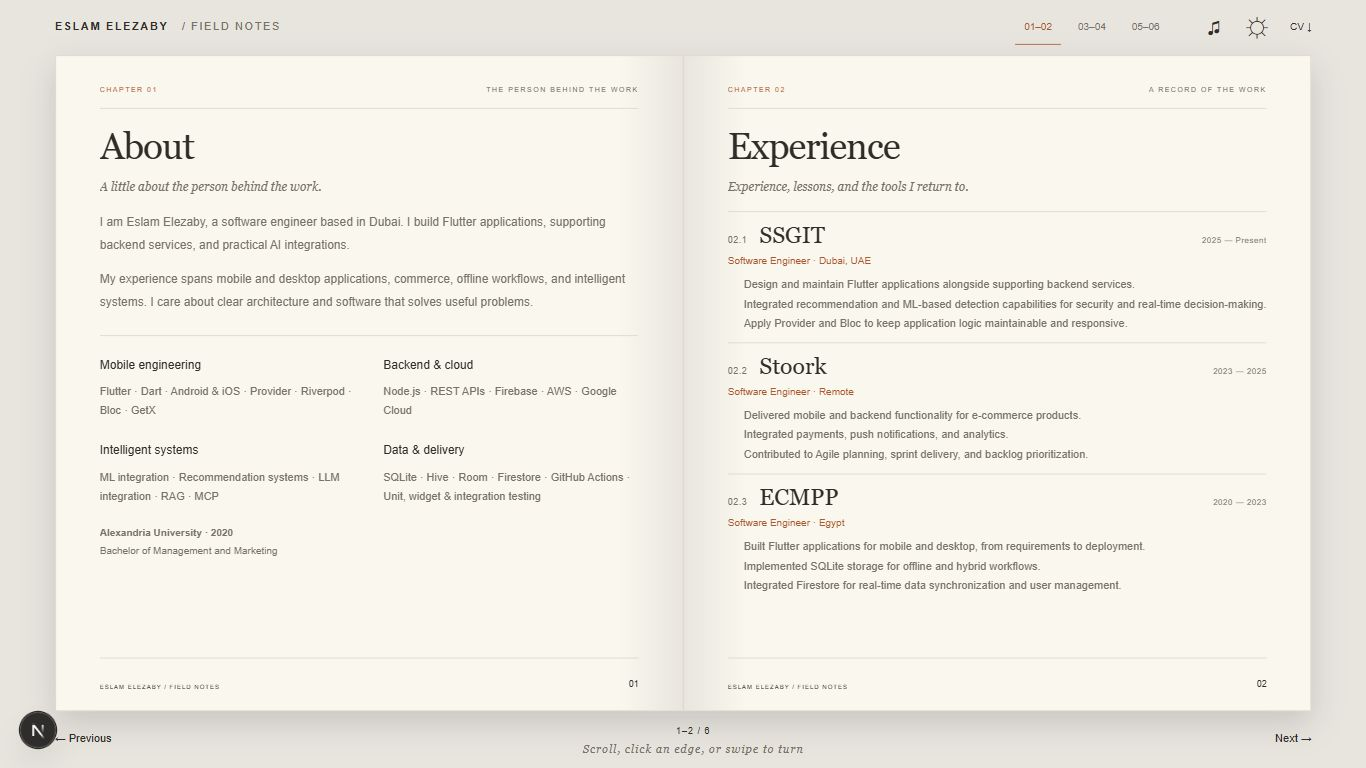
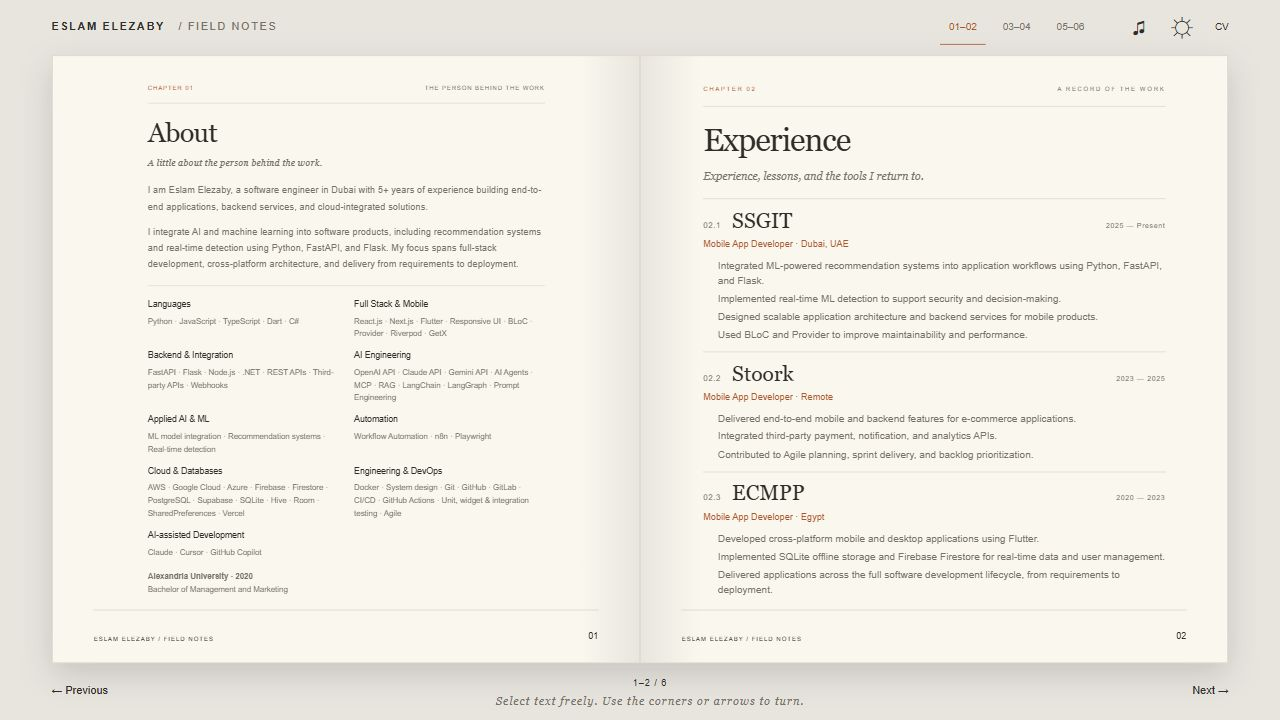
refactor: update portfolio details and enhance CV content for clarity and relevance

diff --git a/components/notebook.tsx b/components/notebook.tsx
@@ -9,15 +9,15 @@ import {chapters,products,tools} from '@/lib/notebook';
 import {experience,profile,skills} from '@/lib/portfolio';
 function OutLink({href,children,className=''}:{href:string;children:React.ReactNode;className?:string}){return <a href={href} className={className} target="_blank" rel="noopener noreferrer">{children}</a>}
 function Note({children}:{children:React.ReactNode}){return <aside className="pencil-note"><span className="micro">ENGINEERING NOTE</span><p>{children}</p></aside>}
-function ChapterContent({index,headingId}:{index:number;headingId?:string}){const chapter=chapters[index];return <><div className="chapter-running"><span>CHAPTER {chapter.number}</span><span>{chapter.label}</span></div>{chapter.id==='about'?<><h2 id={headingId} tabIndex={-1}>About</h2><p className="chapter-intro">A little about the person behind the work.</p><div className="about-copy"><p>I am Eslam Elezaby, a software engineer based in Dubai. I build Flutter applications, supporting backend services, and practical AI integrations.</p><p>My experience spans mobile and desktop applications, commerce, offline workflows, and intelligent systems. I care about clear architecture and software that solves useful problems.</p></div><div className="about-toolkit">{skills.map(s=><div key={s.name}><h3>{s.name}</h3><p>{s.items.join(' · ')}</p></div>)}</div><p className="education-note"><strong>Alexandria University · 2020</strong><br/>Bachelor of Management and Marketing</p><Note>Build useful things.<br/>Keep learning.</Note></>:chapter.id==='work'?<><h2 id={headingId} tabIndex={-1}>Projects</h2><p className="chapter-intro">A selection of things I’ve helped bring to life.</p><div className="product-index">{products.map((p,i)=><article className="product-entry" key={p.name}><span className="entry-number">{chapter.number}.{i+1}</span><div className="entry-content"><h3>{p.name}</h3><p>{p.description}</p><span className="micro">{p.category}</span></div><div className="entry-links">{p.note&&<span className="margin-note">{p.note}</span>}{p.links.map(l=><OutLink key={l.href} href={l.href}>{l.label}</OutLink>)}</div></article>)}</div><Note>Understand the problem.<br/>Build the simplest useful solution.</Note></>:chapter.id==='open-source'?<><h2 id={headingId} tabIndex={-1}>Open Source</h2><p className="chapter-intro">Small tools. Thoughtful details. Shared openly.</p><div className="tool-index">{tools.map((t,i)=><article key={t.name} className="tool-entry"><span className="entry-number">{chapter.number}.{i+1}</span><div><span className="micro">{t.category}</span><h3>{t.name}</h3><p>{t.description}</p><p className="tool-aside">{t.detail}</p><OutLink href={t.href}>{t.link}</OutLink></div></article>)}</div><Note>Make something useful.<br/>Then make it easier to use.</Note></>:chapter.id==='ai'?<><h2 id={headingId} tabIndex={-1}>AI Projects</h2><p className="chapter-intro">An exploration of voice, language, and useful actions.</p><article className="ai-record"><div className="record-top"><span className="micro">PROJECT / {chapter.number}.1</span><span className="status-label">Prototype</span></div><h3>Hotel Voice AI Agent</h3><p>A real-time voice agent exploring hotel inquiries, availability checks, and mock booking flows through natural conversation.</p><div className="voice-flow" aria-label="Voice input, speech recognition, language model, tools, spoken response"><span>Voice</span><b>→</b><span>Understand</span><b>→</b><span>Act</span><b>→</b><span>Respond</span></div><dl className="ai-facts"><div><dt>CONVERSATION</dt><dd>Twilio · Deepgram</dd></div><div><dt>REASONING & ACTIONS</dt><dd>OpenAI · Tool calling</dd></div><div><dt>APPLICATION</dt><dd>Python · FastAPI · WebSockets</dd></div><div><dt>SCOPE</dt><dd>Hotel queries & mock bookings</dd></div></dl><OutLink href="https://github.com/eslamelezaby1/voice_ai_agent">Explore the repository</OutLink></article><div className="thinking-note"><span className="micro">WHAT INTERESTS ME</span><p>How a model becomes part of a dependable system: the context it receives, the tools it can use, and the experience it creates.</p></div><Note>Explore the possible.<br/>Build the useful.</Note></>:chapter.id==='experience'?<><h2 id={headingId} tabIndex={-1}>Experience</h2><p className="chapter-intro">Experience, lessons, and the tools I return to.</p><div className="career-index">{experience.map((job,i)=><article className="career-entry" key={job.company}><div className="career-heading"><div><span className="entry-number">{chapter.number}.{i+1}</span><h3>{job.company}</h3></div><span className="career-date">{job.period}</span></div><p className="career-role">Software Engineer <span>· {job.location}</span></p><ul>{job.details.map(d=><li key={d}>{d}</li>)}</ul></article>)}</div></>:<><h2 id={headingId} tabIndex={-1}>Contact</h2><p className="chapter-intro">Have something worth building? Let’s talk.</p><div className="contact-letter"><p>I’m Eslam, a software engineer based in Dubai. I build mobile applications, connected services, and practical AI integrations.</p><p>Whether it’s a product idea, an engineering challenge, or a role that fits my experience, I’d be happy to hear from you.</p><a className="letter-email" href={'mailto:'+profile.email}>{profile.email}</a><div className="contact-rows"><OutLink href={profile.linkedin}>Connect on LinkedIn</OutLink><OutLink href={profile.github}>Explore my GitHub</OutLink><OutLink href={profile.whatsapp}>Message on WhatsApp</OutLink><a href="/api/cv">Download my CV</a></div><div className="letter-signature">Eslam Elezaby</div><span className="micro">DUBAI, UNITED ARAB EMIRATES</span></div><Note>Good software starts<br/>with a good conversation.</Note></>}</>}
+function ChapterContent({index,headingId}:{index:number;headingId?:string}){const chapter=chapters[index];return <><div className="chapter-running"><span>CHAPTER {chapter.number}</span><span>{chapter.label}</span></div>{chapter.id==='about'?<><h2 id={headingId} tabIndex={-1}>About</h2><p className="chapter-intro">A little about the person behind the work.</p><div className="about-copy"><p>I am Eslam Elezaby, a software engineer in Dubai with 5+ years of experience building end-to-end applications, backend services, and cloud-integrated solutions.</p><p>I integrate AI and machine learning into software products, including recommendation systems and real-time detection using Python, FastAPI, and Flask. My focus spans full-stack development, cross-platform architecture, and delivery from requirements to deployment.</p></div><div className="about-toolkit">{skills.map(s=><div key={s.name}><h3>{s.name}</h3><p>{s.items.join(' · ')}</p></div>)}</div><p className="education-note"><strong>Alexandria University · 2020</strong><br/>Bachelor of Management and Marketing</p><Note>Build useful things.<br/>Keep learning.</Note></>:chapter.id==='work'?<><h2 id={headingId} tabIndex={-1}>Projects</h2><p className="chapter-intro">A selection of things I’ve helped bring to life.</p><div className="product-index">{products.map((p,i)=><article className="product-entry" key={p.name}><span className="entry-number">{chapter.number}.{i+1}</span><div className="entry-content"><h3>{p.name}</h3><p>{p.description}</p><span className="micro">{p.category}</span></div><div className="entry-links">{p.note&&<span className="margin-note">{p.note}</span>}{p.links.map(l=><OutLink key={l.href} href={l.href}>{l.label}</OutLink>)}</div></article>)}</div><Note>Understand the problem.<br/>Build the simplest useful solution.</Note></>:chapter.id==='open-source'?<><h2 id={headingId} tabIndex={-1}>Open Source</h2><p className="chapter-intro">Small tools. Thoughtful details. Shared openly.</p><div className="tool-index">{tools.map((t,i)=><article key={t.name} className="tool-entry"><span className="entry-number">{chapter.number}.{i+1}</span><div><span className="micro">{t.category}</span><h3>{t.name}</h3><p>{t.description}</p><p className="tool-aside">{t.detail}</p><OutLink href={t.href}>{t.link}</OutLink></div></article>)}</div><Note>Make something useful.<br/>Then make it easier to use.</Note></>:chapter.id==='ai'?<><h2 id={headingId} tabIndex={-1}>AI Projects</h2><p className="chapter-intro">An exploration of voice, language, and useful actions.</p><article className="ai-record"><div className="record-top"><span className="micro">PROJECT / {chapter.number}.1</span><span className="status-label">Prototype</span></div><h3>Hotel Voice AI Agent</h3><p>A real-time voice agent exploring hotel inquiries, availability checks, and mock booking flows through natural conversation.</p><div className="voice-flow" aria-label="Voice input, speech recognition, language model, tools, spoken response"><span>Voice</span><b>→</b><span>Understand</span><b>→</b><span>Act</span><b>→</b><span>Respond</span></div><dl className="ai-facts"><div><dt>CONVERSATION</dt><dd>Twilio · Deepgram</dd></div><div><dt>REASONING & ACTIONS</dt><dd>OpenAI · Tool calling</dd></div><div><dt>APPLICATION</dt><dd>Python · FastAPI · WebSockets</dd></div><div><dt>SCOPE</dt><dd>Hotel queries & mock bookings</dd></div></dl><OutLink href="https://github.com/eslamelezaby1/voice_ai_agent">Explore the repository</OutLink></article><div className="thinking-note"><span className="micro">WHAT INTERESTS ME</span><p>How a model becomes part of a dependable system: the context it receives, the tools it can use, and the experience it creates.</p></div><Note>Explore the possible.<br/>Build the useful.</Note></>:chapter.id==='experience'?<><h2 id={headingId} tabIndex={-1}>Experience</h2><p className="chapter-intro">Experience, lessons, and the tools I return to.</p><div className="career-index">{experience.map((job,i)=><article className="career-entry" key={job.company}><div className="career-heading"><div><span className="entry-number">{chapter.number}.{i+1}</span><h3>{job.company}</h3></div><span className="career-date">{job.period}</span></div><p className="career-role">{job.role} <span>· {job.location}</span></p><ul>{job.details.map(d=><li key={d}>{d}</li>)}</ul></article>)}</div></>:<><h2 id={headingId} tabIndex={-1}>Contact</h2><p className="chapter-intro">Have something worth building? Let’s talk.</p><div className="contact-letter"><p>I’m Eslam, a software engineer based in Dubai. I build full-stack applications, backend services, and practical AI integrations.</p><p>Whether it’s a product idea, an engineering challenge, or a role that fits my experience, I’d be happy to hear from you.</p><p className="availability-note">{profile.availability}</p><a className="letter-email" href={'mailto:'+profile.email}>{profile.email}</a><div className="contact-rows"><OutLink href={profile.linkedin}>Connect on LinkedIn</OutLink><OutLink href={profile.github}>Explore my GitHub</OutLink><OutLink href={profile.whatsapp}>Message on WhatsApp</OutLink><a href="/api/cv">Download my CV</a></div><div className="letter-signature">Eslam Elezaby</div><span className="micro">DUBAI, UNITED ARAB EMIRATES</span></div><Note>Good software starts<br/>with a good conversation.</Note></>}</>}
 
 const PaperPage=forwardRef<HTMLDivElement,{index:number}>(({index},ref)=>{
  const viewport=useRef<HTMLDivElement>(null);
  const body=useRef<HTMLDivElement>(null);
- useEffect(()=>{const frame=viewport.current;const content=body.current;if(!frame||!content)return;const fit=()=>{const mobile=window.innerWidth<=1024;const height=frame.clientHeight;const natural=content.scrollHeight;const scale=mobile&&height>0&&natural>0?Math.min(1,(height-2)/natural):1;content.style.setProperty('--page-fit',String(scale))};const observer=new ResizeObserver(fit);observer.observe(frame);observer.observe(content);fit();return()=>observer.disconnect()},[]);
+ useEffect(()=>{const frame=viewport.current;const content=body.current;if(!frame||!content)return;const fit=()=>{const height=frame.clientHeight;const natural=content.scrollHeight;const scale=height>0&&natural>0?Math.min(1,(height-2)/natural):1;content.style.setProperty('--page-fit',String(scale))};const observer=new ResizeObserver(fit);observer.observe(frame);observer.observe(content);fit();return()=>observer.disconnect()},[]);
  return <div ref={ref} className="flip-sheet"><div className="flip-content" ref={viewport}><div className="fit-page-body" ref={body}><ChapterContent index={index}/></div></div><footer className="flip-folio"><span>ESLAM ELEZABY / FIELD NOTES</span><span>{chapters[index].page}</span></footer></div>
 });PaperPage.displayName='PaperPage';
-const Cover=forwardRef<HTMLDivElement,{back?:boolean;onOpen:()=>void}>(({back=false,onOpen},ref)=><div ref={ref} data-density="hard" className={'flip-cover'+(!back?' portrait-cover':'')}><div className="front-cover">{!back&&<div className="cover-portrait"><Image src="/assets/images/eslam-cover-engraving.png" alt="Engraved portrait of Eslam Elezaby" fill sizes="(max-width: 1024px) 100vw, 50vw" priority/></div>}<span className="cover-edition">VOLUME 01 / PERSONAL PORTFOLIO</span><div className="cover-emblem" aria-hidden="true">EE</div><p className="cover-kicker">{back?'THE NEXT CHAPTER':'PERSONAL PORTFOLIO'}</p><h2>{back?<>To be<br/>continued.</>:<>Eslam<br/>Elezaby</>}</h2><span className="cover-rule"/><p className="cover-author">{back?'Eslam Elezaby':'Software Engineer'}</p><p className="cover-subtitle">{back?'Software Engineer · Dubai':'Dubai, UAE'}</p><button className="open-book-button" onClick={onOpen}>{back?'Back to the pages':'Open book'} ↗</button><p className="cover-footnote">IDEAS. SYSTEMS. THINGS WORTH BUILDING.</p></div></div>);
+const Cover=forwardRef<HTMLDivElement,{back?:boolean;onOpen:()=>void}>(({back=false,onOpen},ref)=><div ref={ref} data-density="hard" className={'flip-cover'+(!back?' portrait-cover':'')}><div className="front-cover">{!back&&<div className="cover-portrait"><Image src="/assets/images/eslam-cover-engraving.png" alt="Engraved portrait of Eslam Elezaby" fill sizes="(max-width: 1024px) 100vw, 50vw" priority/></div>}<span className="cover-edition">VOLUME 01 / PERSONAL PORTFOLIO</span><div className="cover-emblem" aria-hidden="true">EE</div><p className="cover-kicker">{back?'THE NEXT CHAPTER':'PERSONAL PORTFOLIO'}</p><h2>{back?<>To be<br/>continued.</>:<>Eslam<br/>Elezaby</>}</h2><span className="cover-rule"/><p className="cover-author">{back?'Eslam Elezaby':'Software Engineer'}</p><p className="cover-subtitle">{back?'Software Engineer · Dubai':'AI Integration · Full Stack · Dubai'}</p><button className="open-book-button" onClick={onOpen}>{back?'Back to the pages':'Open book'} ↗</button><p className="cover-footnote">IDEAS. SYSTEMS. THINGS WORTH BUILDING.</p></div></div>);
 Cover.displayName='Cover';
 export default function Notebook(){
  const book=useRef<{pageFlip:()=>PageFlip}|null>(null);

diff --git a/lib/portfolio.ts b/lib/portfolio.ts
@@ -1,14 +1,19 @@
 export const profile = {
- name: 'Eslam Elezaby', role: 'Software Engineer', location: 'Dubai, UAE', email: 'eslamelezaby1@gmail.com', phone: '+971 50 206 0846', github: 'https://github.com/eslamelezaby1', linkedin: 'https://www.linkedin.com/in/eslamelezaby98/', whatsapp: 'https://wa.me/971502060846'
+ name: 'Eslam Elezaby', role: 'Software Engineer', specialization: 'AI Integration & Full Stack Development', experience: '5+ years', availability: 'Available immediately', location: 'Dubai, UAE', email: 'eslamelezaby1@gmail.com', phone: '+971 50 206 0846', github: 'https://github.com/eslamelezaby98', linkedin: 'https://www.linkedin.com/in/eslamelezaby98/', whatsapp: 'https://wa.me/971502060846'
 };
 export const experience = [
- {company:'SSGIT',period:'2025 — Present',location:'Dubai, UAE',summary:'Scalable applications. Intelligent integrations.',details:['Design and maintain Flutter applications alongside supporting backend services.','Integrated recommendation and ML-based detection capabilities for security and real-time decision-making.','Apply Provider and Bloc to keep application logic maintainable and responsive.'],tags:['Flutter','Provider','Bloc','ML integration']},
- {company:'Stoork',period:'2023 — 2025',location:'Remote',summary:'Engineering the commerce experience.',details:['Delivered mobile and backend functionality for e-commerce products.','Integrated payments, push notifications, and analytics.','Contributed to Agile planning, sprint delivery, and backlog prioritization.'],tags:['E-commerce','REST APIs','Payments','Agile']},
- {company:'ECMPP',period:'2020 — 2023',location:'Egypt',summary:'Connected experiences. Even offline.',details:['Built Flutter applications for mobile and desktop, from requirements to deployment.','Implemented SQLite storage for offline and hybrid workflows.','Integrated Firestore for real-time data synchronization and user management.'],tags:['Flutter','SQLite','Firestore','Desktop']}
+ {company:'SSGIT',role:'Mobile App Developer',period:'2025 — Present',location:'Dubai, UAE',details:['Integrated ML-powered recommendation systems into application workflows using Python, FastAPI, and Flask.','Implemented real-time ML detection to support security and decision-making.','Designed scalable application architecture and backend services for mobile products.','Used BLoC and Provider to improve maintainability and performance.']},
+ {company:'Stoork',role:'Mobile App Developer',period:'2023 — 2025',location:'Remote',details:['Delivered end-to-end mobile and backend features for e-commerce applications.','Integrated third-party payment, notification, and analytics APIs.','Contributed to Agile planning, sprint delivery, and backlog prioritization.']},
+ {company:'ECMPP',role:'Mobile App Developer',period:'2020 — 2023',location:'Egypt',details:['Developed cross-platform mobile and desktop applications using Flutter.','Implemented SQLite offline storage and Firebase Firestore for real-time data and user management.','Delivered applications across the full software development lifecycle, from requirements to deployment.']}
 ];
 export const skills = [
- {icon:'◇',name:'Mobile engineering',items:['Flutter','Dart','Android & iOS','Provider','Riverpod','Bloc','GetX']},
- {icon:'⌘',name:'Backend & cloud',items:['Node.js','REST APIs','Firebase','AWS','Google Cloud']},
- {icon:'◎',name:'Intelligent systems',items:['ML integration','Recommendation systems','LLM integration','RAG','MCP']},
- {icon:'▤',name:'Data & delivery',items:['SQLite','Hive','Room','Firestore','GitHub Actions','Unit, widget & integration testing']}
+ {name:'Languages',items:['Python','JavaScript','TypeScript','Dart','C#']},
+ {name:'Full Stack & Mobile',items:['React.js','Next.js','Flutter','Responsive UI','BLoC','Provider','Riverpod','GetX']},
+ {name:'Backend & Integration',items:['FastAPI','Flask','Node.js','.NET','REST APIs','Third-party APIs','Webhooks']},
+ {name:'AI Engineering',items:['OpenAI API','Claude API','Gemini API','AI Agents','MCP','RAG','LangChain','LangGraph','Prompt Engineering']},
+ {name:'Applied AI & ML',items:['ML model integration','Recommendation systems','Real-time detection']},
+ {name:'Automation',items:['Workflow Automation','n8n','Playwright']},
+ {name:'Cloud & Databases',items:['AWS','Google Cloud','Azure','Firebase','Firestore','PostgreSQL','Supabase','SQLite','Hive','Room','SharedPreferences','Vercel']},
+ {name:'Engineering & DevOps',items:['Docker','System design','Git','GitHub','GitLab','CI/CD','GitHub Actions','Unit, widget & integration testing','Agile']},
+ {name:'AI-assisted Development',items:['Claude','Cursor','GitHub Copilot']}
 ];

diff --git a/app/globals.css b/app/globals.css
@@ -40,3 +40,5 @@ html::-webkit-scrollbar,body::-webkit-scrollbar{display:none;width:0;height:0}
 .flip-content,.fit-page-body,.fit-page-body *,.flip-folio,.front-cover h2,.front-cover p,.cover-edition{-webkit-user-select:text;user-select:text;-webkit-touch-callout:default}.flip-content,.fit-page-body{touch-action:pan-y pinch-zoom}.fit-page-body{cursor:text}.fit-page-body a{cursor:pointer}.flip-controls,.flip-toolbar,.hint-gesture{-webkit-user-select:none;user-select:none}
 /* Keep the native pointer and text caret, with a non-interactive copper halo. */
 .cursor-highlight{position:fixed;top:0;left:0;width:0;height:0;z-index:2147483647;pointer-events:none!important;user-select:none;will-change:transform}.cursor-highlight[hidden]{display:none}.cursor-highlight>span{display:block;position:absolute;width:30px;height:30px;left:-15px;top:-15px;border:1px solid #b16b36a6;border-radius:50%;background:#d88c5126;box-shadow:0 0 0 3px #d88c510a;transition:width .15s,height .15s,left .15s,top .15s,background .15s}.cursor-highlight[data-interactive=true]>span{width:40px;height:40px;left:-20px;top:-20px;background:#d88c5140;border-color:#b16b36cc}.cursor-highlight[data-selecting=true]>span{background:transparent;border-color:#b16b3666;box-shadow:none}@media(hover:none) and (pointer:coarse){.cursor-highlight{display:none!important}}@media(prefers-reduced-motion:reduce){.cursor-highlight>span{transition:none}}
+.availability-note{display:inline-block;border:1px solid var(--line);padding:7px 11px;color:var(--accent)!important;font-size:11px!important;margin:14px 0}.about-toolkit>div:last-child{grid-column:1/-1}@media(max-width:1024px){.flip-content .about-toolkit{gap:10px 15px}.flip-content .about-toolkit h3{margin-bottom:4px}.flip-content .about-toolkit p{font-size:9px;line-height:1.5}.availability-note{font-size:10px!important;margin:10px 0}}
+.fit-page-body{transform:scale(var(--page-fit,1));transform-origin:top center}.flip-content{overflow:hidden}.flip-content .about-toolkit{gap:12px 20px;margin-top:17px;padding-top:15px}.flip-content .about-toolkit h3{font-size:11px;margin-bottom:5px}.flip-content .about-toolkit p{font-size:10px;line-height:1.6}@media(max-width:1024px){.flip-content .about-toolkit{gap:10px 15px}.flip-content .about-toolkit h3{font-size:10px}.flip-content .about-toolkit p{font-size:9px;line-height:1.5}}

diff --git a/app/layout.tsx b/app/layout.tsx
@@ -1,4 +1,4 @@
 import type {Metadata} from 'next';
 import './globals.css';
-export const metadata:Metadata={metadataBase:new URL('https://eslamelezaby.vercel.app'),title:'Eslam Elezaby — The Engineer’s Field Notes',description:'Software engineer in Dubai. A notebook of mobile applications, connected systems, open-source tools, and practical AI.',openGraph:{title:'Eslam Elezaby — Software Engineer',description:'Notes on building useful software.',type:'website'}};
+export const metadata:Metadata={metadataBase:new URL('https://eslamelezaby.vercel.app'),title:'Eslam Elezaby — The Engineer’s Field Notes',description:'Software engineer in Dubai. 5+ years building full-stack applications, backend services, and AI integrations. Available immediately.',openGraph:{title:'Eslam Elezaby — Software Engineer',description:'Notes on building useful software.',type:'website'}};
 export default function RootLayout({children}:{children:React.ReactNode}){return <html lang="en"><body>{children}</body></html>}

diff --git a/app/api/cv/route.ts b/app/api/cv/route.ts
@@ -1,4 +1,4 @@
 import { readFile } from 'node:fs/promises';
 import path from 'node:path';
 export const runtime = 'nodejs';
-export async function GET(){const file=await readFile(path.join(process.cwd(),'public','Eslam-Elezaby-CV.pdf'));return new Response(file,{headers:{'Content-Type':'application/pdf','Content-Disposition':'attachment; filename="Eslam-Elezaby-CV.pdf"','Cache-Control':'public, max-age=3600'}})}
+export async function GET(){const file=await readFile(path.join(process.cwd(),'public','Eslam-Elezaby-CV.pdf'));return new Response(file,{headers:{'Content-Type':'application/pdf','Content-Disposition':'attachment; filename="Eslam-Elezaby-CV.pdf"','Cache-Control':'no-cache'}})}

diff --git a/README.md b/README.md
@@ -2,7 +2,7 @@
 
 A personal portfolio presented as an open engineering notebook. Built with Next.js, TypeScript, and Tailwind CSS.
 
-[Live website](https://eslamelezaby.vercel.app/) · [LinkedIn](https://www.linkedin.com/in/eslamelezaby98/) · [GitHub](https://github.com/eslamelezaby1)
+[Live website](https://eslamelezaby.vercel.app/) · [LinkedIn](https://www.linkedin.com/in/eslamelezaby98/) · [GitHub](https://github.com/eslamelezaby98)
 
 ![Desktop notebook portfolio](docs/screenshots/desktop.jpg)
 
